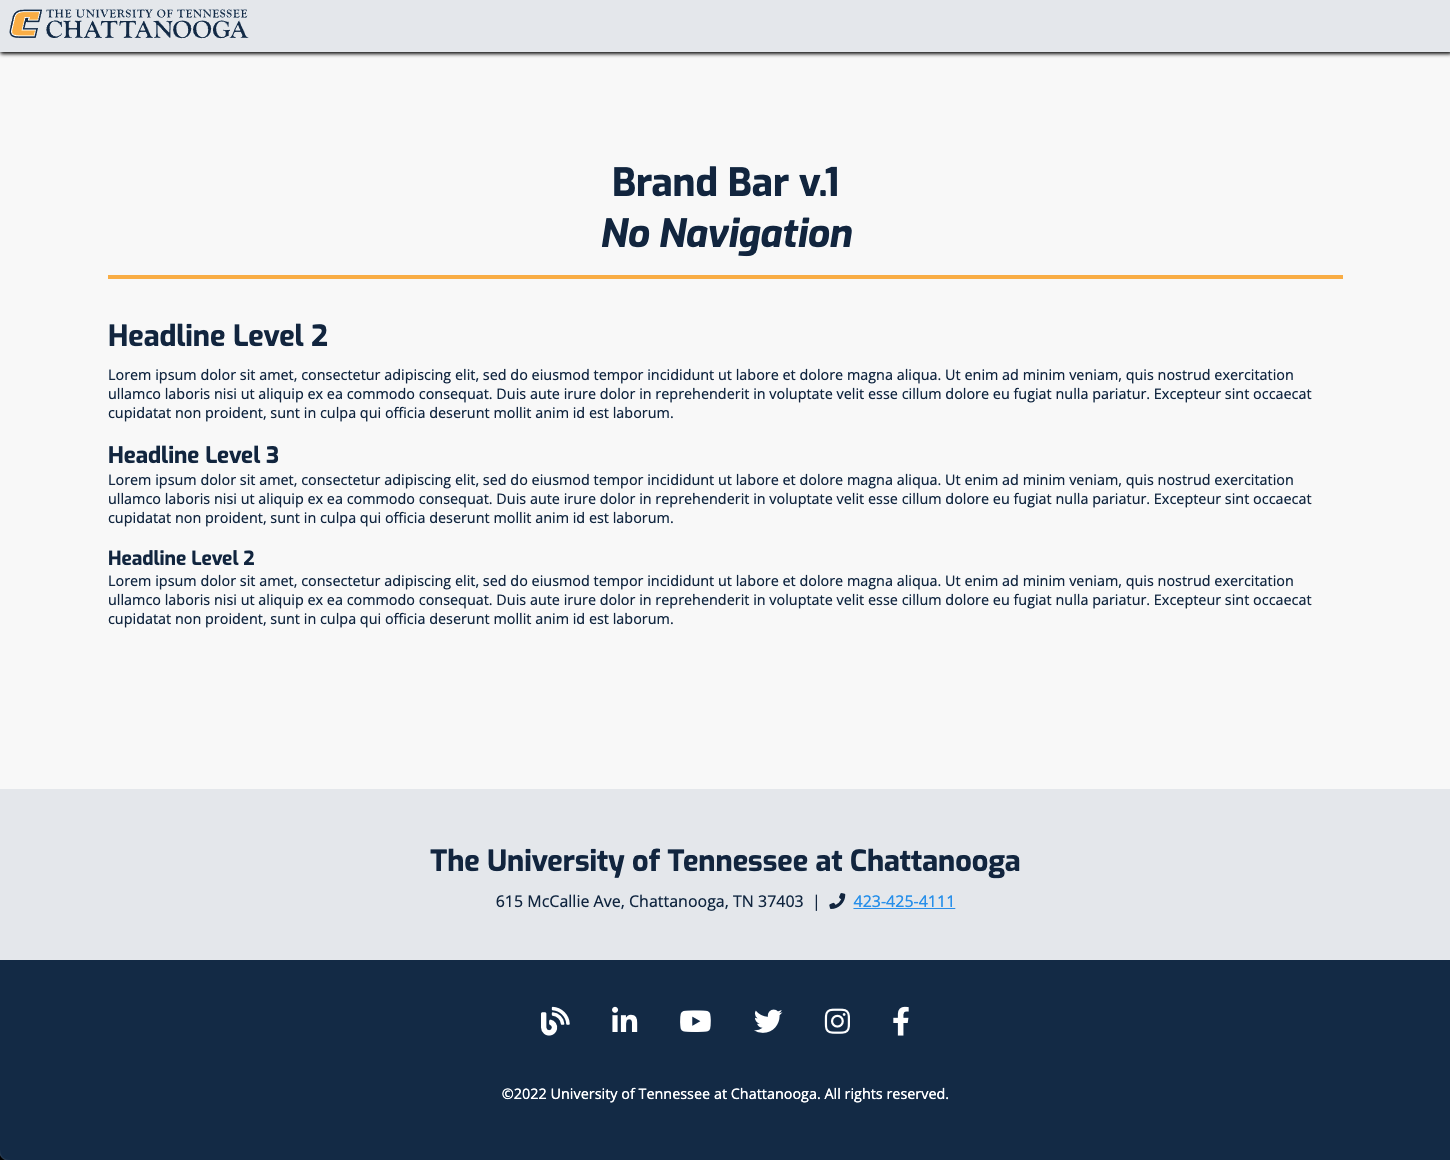
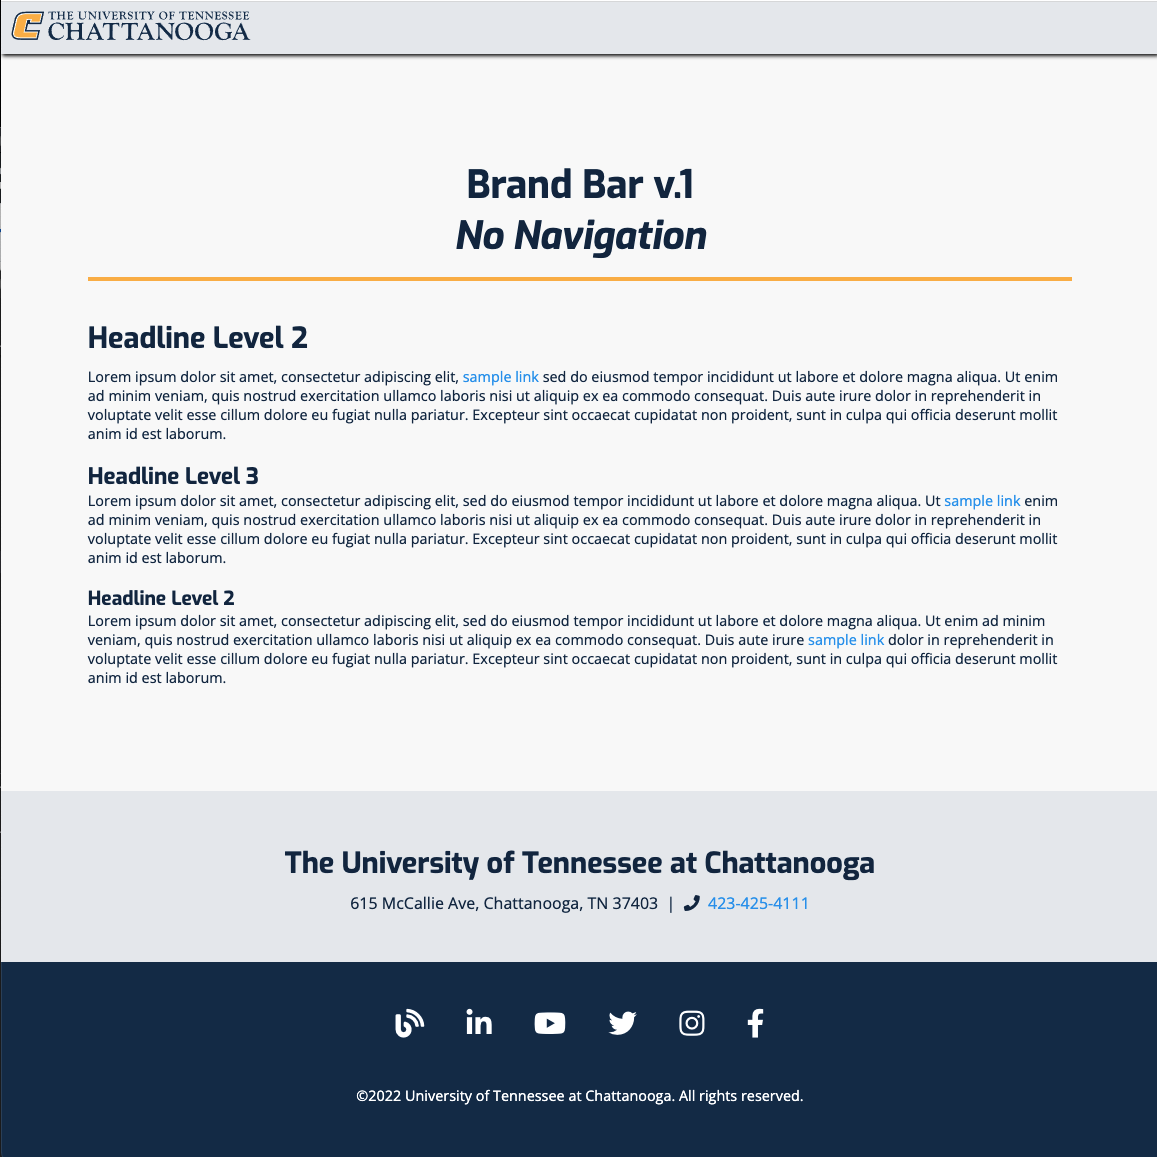
Update html and png file with a tags.

diff --git a/brandbar-v1.html b/brandbar-v1.html
@@ -15,7 +15,7 @@
 <link rel="preconnect" href="https://fonts.gstatic.com" crossorigin>
 <link href="https://fonts.googleapis.com/css2?family=Exo:ital,wght@0,400;0,700;1,400;1,500;1,700&family=Open+Sans:ital,wght@0,300;0,400;0,600;0,700;0,800;1,300;1,400;1,500;1,600;1,700;1,800&display=swap" rel="stylesheet">
 <style>
-:root{--dkblue:#112e51;--ltblue:#e7eaee;--gold:#fdb736;--dkgold:#725218;--ltgray:#a0aec0;--links:#2196f3;--bodycopy:#0f2949;--pagebg:#f9f9f9;}*{margin:0;padding:0;box-sizing:border-box}html{box-sizing:border-box}*,::before,::after{box-sizing:inherit}body{font-size:18px;font-family:'Open Sans',sans-serif;color:var(--bodycopy);background:var(--pagebg);margin:0;overflow-x:hidden;overflow-y:scroll}html,body{height:100%}#container{display:flex;flex-direction:column;height:100vh}main{flex:1 0 auto}header,footer{flex-shrink:0}.sr-only{position:absolute;width:1px;height:1px;padding:0;margin:-1px;overflow:hidden;clip:rect(0,0,0,0);white-space:nowrap;border-width:0}a,button,.button,.title > a,.title-area,.header,.header > .wrap > *{outline:none}a{color:var(--links)}:focus{outline:unset}a:hover,a:focus{color:var(--gold)}p{margin-bottom:12px;color:var(--bodycopy)}hr{background:transparent;border-bottom:1px solid var(--ltgray);}b,strong{font-weight:700}em,i{font-style:italic}::selection{background:var(--ltblue);}h1,h2,h3,h4,h5,h6{font-weight:700;margin-top:24px;font-family:'Exo',sans-serif}h1{font-size:3rem;text-align:center;width:100%;padding-bottom:18px;border-bottom:6px solid var(--gold);margin-top:2rem;margin-left:auto;margin-right:auto}h2{font-size:2.25rem;text-align:left;margin:48px auto 12px}#department-footer h2{text-align:center;}h3{font-size:1.75rem}h4{font-size:1.5rem}h5{font-size:1.25rem}h6{font-size:1rem;text-align:center;margin:36px auto}embed,iframe,object,video{max-width:none}img{height:auto}.title-area svg{max-width:300px;max-height:48px}figure{margin:0}figure a{border:none}hr{margin:60px 0}.button-wrapper{display:flex;justify-content:space-evenly;padding-top:36px;max-width:900px;margin:0 auto}.btn,.btn-primary,button,.button{background:var(--dkblue);color:#fff;cursor:pointer;text-align:center;font-size:1rem;padding:6px 12px;text-decoration:none;white-space:normal;width:auto;display:inline-block;margin-top:6px;margin-bottom:6px;transition:all 250ms ease-in-out}.btn-danger,.button.secondary{background:var(--gold);color:var(--dkblue)}.btn:focus,.btn:hover,button:focus,button:hover,.button:focus,.button:hover,.btn-danger,.button.secondary:focus,.button.secondary:hover{color:var(--gold)}.logins{width:175px}.container{background:var(--pagebg);position:relative;z-index:99}.inner,.wrap{margin:0 auto}.inner{max-width:85%;margin:100px auto;clear:both;position:relative;z-index:100}.header{background:#fff;top:0;width:100%;z-index:9999;box-shadow:1px 3px 5px -1px #000}.header > .wrap{display:flex;flex-direction:column;margin-left:0;margin-right:0}.header-first-row{background:#e7eaee;display:flex;align-content:center;padding:6px 12px}.header-right{margin-left:auto}.title-area{float:left;background:transparent;max-width:30%;padding:0;margin-right:auto}.title{font-family:'Exo;',sans-serif;font-weight:700;margin-bottom:0}.title a,.title a:focus,.title a:hover{background:#e7eaee;color:#fff;border:none;min-height:15px;opacity:1;padding:21px;text-decoration:none}.title a:focus,.title a:hover{box-shadow:inset 1px 3px 5px -1px #000}.title > a{float:left;width:100%}.header .custom-logo-link{border:none}.header .custom-logo-link svg.custom-logo{display:block;max-height:80px;width:auto;max-width:auto}#department-footer{background:var(--ltblue);text-align:center;padding-top:18px;padding-bottom:60px}address{display:inline-block;font-style:normal;font-size:1.25rem}.footer-copyright-container{background-color:var(--dkblue);padding-bottom:12px}.footer-copyright-container ul{padding:60px;width:fit-content;margin:0 auto}.footer-copyright-container li{display:inline;padding:24px}.footer-copyright-container p{color:#fff;text-align:center;max-width:90%;margin:0 auto 60px}.footer-copyright-container li a{text-decoration:none;color:#fff}.footer-copyright-container li a:hover{color:var(--gold)}.mobile-hide{display:inline}@media only screen and (max-width: 900px){.logins{width:100%;min-width:250px}.button-wrapper{display:grid}}@media only screen and (max-width: 600px){.inner{margin:24px auto 60px}.mobile-hide{display:none}.mobile-block{display:block}h1{font-size:2.25rem}h2{font-size:1.5rem}h3{font-size:1.25rem}h4,h5,h6{font-size:1rem}.title-area svg{max-width:250px;max-height:48px}#department-footer{padding-left:24px;padding-right:24px}.footer-copyright-container ul{padding:24px;width:fit-content;margin:0 auto;padding-top:60px}.footer-copyright-container li{padding:12px;font-size:16px;padding:9px}}@media only screen and (max-width: 300px){.footer-copyright-container li{font-size:14px;padding:6px}}
+:root{--dkblue:#112e51;--ltblue:#e7eaee;--gold:#fdb736;--dkgold:#725218;--ltgray:#a0aec0;--links:#2196f3;--bodycopy:#0f2949;--pagebg:#f9f9f9;}*{margin:0;padding:0;box-sizing:border-box}html{box-sizing:border-box}*,::before,::after{box-sizing:inherit}body{font-size:18px;font-family:'Open Sans',sans-serif;color:var(--bodycopy);background:var(--pagebg);margin:0;overflow-x:hidden;overflow-y:scroll}html,body{height:100%}#container{display:flex;flex-direction:column;height:100vh}main{flex:1 0 auto}header,footer{flex-shrink:0}.sr-only{position:absolute;width:1px;height:1px;padding:0;margin:-1px;overflow:hidden;clip:rect(0,0,0,0);white-space:nowrap;border-width:0}a,button,.button,.title > a,.title-area,.header,.header > .wrap > *{outline:none}a{color:var(--links);text-decoration:none;}:focus{outline:unset}a:hover,a:focus{color:var(--gold);text-decoration:underline;}p{margin-bottom:12px;color:var(--bodycopy)}hr{background:transparent;border-bottom:1px solid var(--ltgray);}b,strong{font-weight:700}em,i{font-style:italic}::selection{background:var(--ltblue);}h1,h2,h3,h4,h5,h6{font-weight:700;margin-top:24px;font-family:'Exo',sans-serif}h1{font-size:3rem;text-align:center;width:100%;padding-bottom:18px;border-bottom:6px solid var(--gold);margin-top:2rem;margin-left:auto;margin-right:auto}h2{font-size:2.25rem;text-align:left;margin:48px auto 12px}#department-footer h2{text-align:center;}h3{font-size:1.75rem}h4{font-size:1.5rem}h5{font-size:1.25rem}h6{font-size:1rem;text-align:center;margin:36px auto}embed,iframe,object,video{max-width:none}img{height:auto}.title-area svg{max-width:300px;max-height:48px}figure{margin:0}figure a{border:none}hr{margin:60px 0}.button-wrapper{display:flex;justify-content:space-evenly;padding-top:36px;max-width:900px;margin:0 auto}.btn,.btn-primary,button,.button{background:var(--dkblue);color:#fff;cursor:pointer;text-align:center;font-size:1rem;padding:6px 12px;text-decoration:none;white-space:normal;width:auto;display:inline-block;margin-top:6px;margin-bottom:6px;transition:all 250ms ease-in-out}.btn-danger,.button.secondary{background:var(--gold);color:var(--dkblue)}.btn:focus,.btn:hover,button:focus,button:hover,.button:focus,.button:hover,.btn-danger,.button.secondary:focus,.button.secondary:hover{color:var(--gold)}.logins{width:175px}.container{background:var(--pagebg);position:relative;z-index:99}.inner,.wrap{margin:0 auto}.inner{max-width:85%;margin:100px auto;clear:both;position:relative;z-index:100}.header{background:#fff;top:0;width:100%;z-index:9999;box-shadow:1px 3px 5px -1px #000}.header > .wrap{display:flex;flex-direction:column;margin-left:0;margin-right:0}.header-first-row{background:#e7eaee;display:flex;align-content:center;padding:6px 12px}.header-right{margin-left:auto}.title-area{float:left;background:transparent;max-width:30%;padding:0;margin-right:auto}.title{font-family:'Exo;',sans-serif;font-weight:700;margin-bottom:0}.title a,.title a:focus,.title a:hover{background:#e7eaee;color:#fff;border:none;min-height:15px;opacity:1;padding:21px;text-decoration:none}.title a:focus,.title a:hover{box-shadow:inset 1px 3px 5px -1px #000}.title > a{float:left;width:100%}.header .custom-logo-link{border:none}.header .custom-logo-link svg.custom-logo{display:block;max-height:80px;width:auto;max-width:auto}#department-footer{background:var(--ltblue);text-align:center;padding-top:18px;padding-bottom:60px}address{display:inline-block;font-style:normal;font-size:1.25rem}.footer-copyright-container{background-color:var(--dkblue);padding-bottom:12px}.footer-copyright-container ul{padding:60px;width:fit-content;margin:0 auto}.footer-copyright-container li{display:inline;padding:24px}.footer-copyright-container p{color:#fff;text-align:center;max-width:90%;margin:0 auto 60px}.footer-copyright-container li a{text-decoration:none;color:#fff}.footer-copyright-container li a:hover{color:var(--gold)}.mobile-hide{display:inline}@media only screen and (max-width: 900px){.logins{width:100%;min-width:250px}.button-wrapper{display:grid}}@media only screen and (max-width: 600px){.inner{margin:24px auto 60px}.mobile-hide{display:none}.mobile-block{display:block}h1{font-size:2.25rem}h2{font-size:1.5rem}h3{font-size:1.25rem}h4,h5,h6{font-size:1rem}.title-area svg{max-width:250px;max-height:48px}#department-footer{padding-left:24px;padding-right:24px}.footer-copyright-container ul{padding:24px;width:fit-content;margin:0 auto;padding-top:60px}.footer-copyright-container li{padding:12px;font-size:16px;padding:9px}}@media only screen and (max-width: 300px){.footer-copyright-container li{font-size:14px;padding:6px}}
 </style>
 <script src="https://kit.fontawesome.com/6cef20ef42.js" crossorigin="anonymous"></script>
 </head>
@@ -307,15 +307,15 @@
       <div class="entry-content" itemprop="text">
         <h2>Headline Level 2</h2>
         <div>
-            Lorem ipsum dolor sit amet, consectetur adipiscing elit, sed do eiusmod tempor incididunt ut labore et dolore magna aliqua. Ut enim ad minim veniam, quis nostrud exercitation ullamco laboris nisi ut aliquip ex ea commodo consequat. Duis aute irure dolor in reprehenderit in voluptate velit esse cillum dolore eu fugiat nulla pariatur. Excepteur sint occaecat cupidatat non proident, sunt in culpa qui officia deserunt mollit anim id est laborum.
+            Lorem ipsum dolor sit amet, consectetur adipiscing elit, <a href="#" title="sample link">sample link</a> sed do eiusmod tempor incididunt ut labore et dolore magna aliqua. Ut enim ad minim veniam, quis nostrud exercitation ullamco laboris nisi ut aliquip ex ea commodo consequat. Duis aute irure dolor in reprehenderit in voluptate velit esse cillum dolore eu fugiat nulla pariatur. Excepteur sint occaecat cupidatat non proident, sunt in culpa qui officia deserunt mollit anim id est laborum.
         </div>
         <h3>Headline Level 3</h3>
         <div>
-            Lorem ipsum dolor sit amet, consectetur adipiscing elit, sed do eiusmod tempor incididunt ut labore et dolore magna aliqua. Ut enim ad minim veniam, quis nostrud exercitation ullamco laboris nisi ut aliquip ex ea commodo consequat. Duis aute irure dolor in reprehenderit in voluptate velit esse cillum dolore eu fugiat nulla pariatur. Excepteur sint occaecat cupidatat non proident, sunt in culpa qui officia deserunt mollit anim id est laborum.
+            Lorem ipsum dolor sit amet, consectetur adipiscing elit, sed do eiusmod tempor incididunt ut labore et dolore magna aliqua. Ut <a href="#" title="sample link">sample link</a> enim ad minim veniam, quis nostrud exercitation ullamco laboris nisi ut aliquip ex ea commodo consequat. Duis aute irure dolor in reprehenderit in voluptate velit esse cillum dolore eu fugiat nulla pariatur. Excepteur sint occaecat cupidatat non proident, sunt in culpa qui officia deserunt mollit anim id est laborum.
         </div>
         <h4>Headline Level 2</h4>
         <div>
-            Lorem ipsum dolor sit amet, consectetur adipiscing elit, sed do eiusmod tempor incididunt ut labore et dolore magna aliqua. Ut enim ad minim veniam, quis nostrud exercitation ullamco laboris nisi ut aliquip ex ea commodo consequat. Duis aute irure dolor in reprehenderit in voluptate velit esse cillum dolore eu fugiat nulla pariatur. Excepteur sint occaecat cupidatat non proident, sunt in culpa qui officia deserunt mollit anim id est laborum.
+            Lorem ipsum dolor sit amet, consectetur adipiscing elit, sed do eiusmod tempor incididunt ut labore et dolore magna aliqua. Ut enim ad minim veniam, quis nostrud exercitation ullamco laboris nisi ut aliquip ex ea commodo consequat. Duis aute irure <a href="#" title="sample link">sample link</a> dolor in reprehenderit in voluptate velit esse cillum dolore eu fugiat nulla pariatur. Excepteur sint occaecat cupidatat non proident, sunt in culpa qui officia deserunt mollit anim id est laborum.
         </div>
         </article>
       </div>
